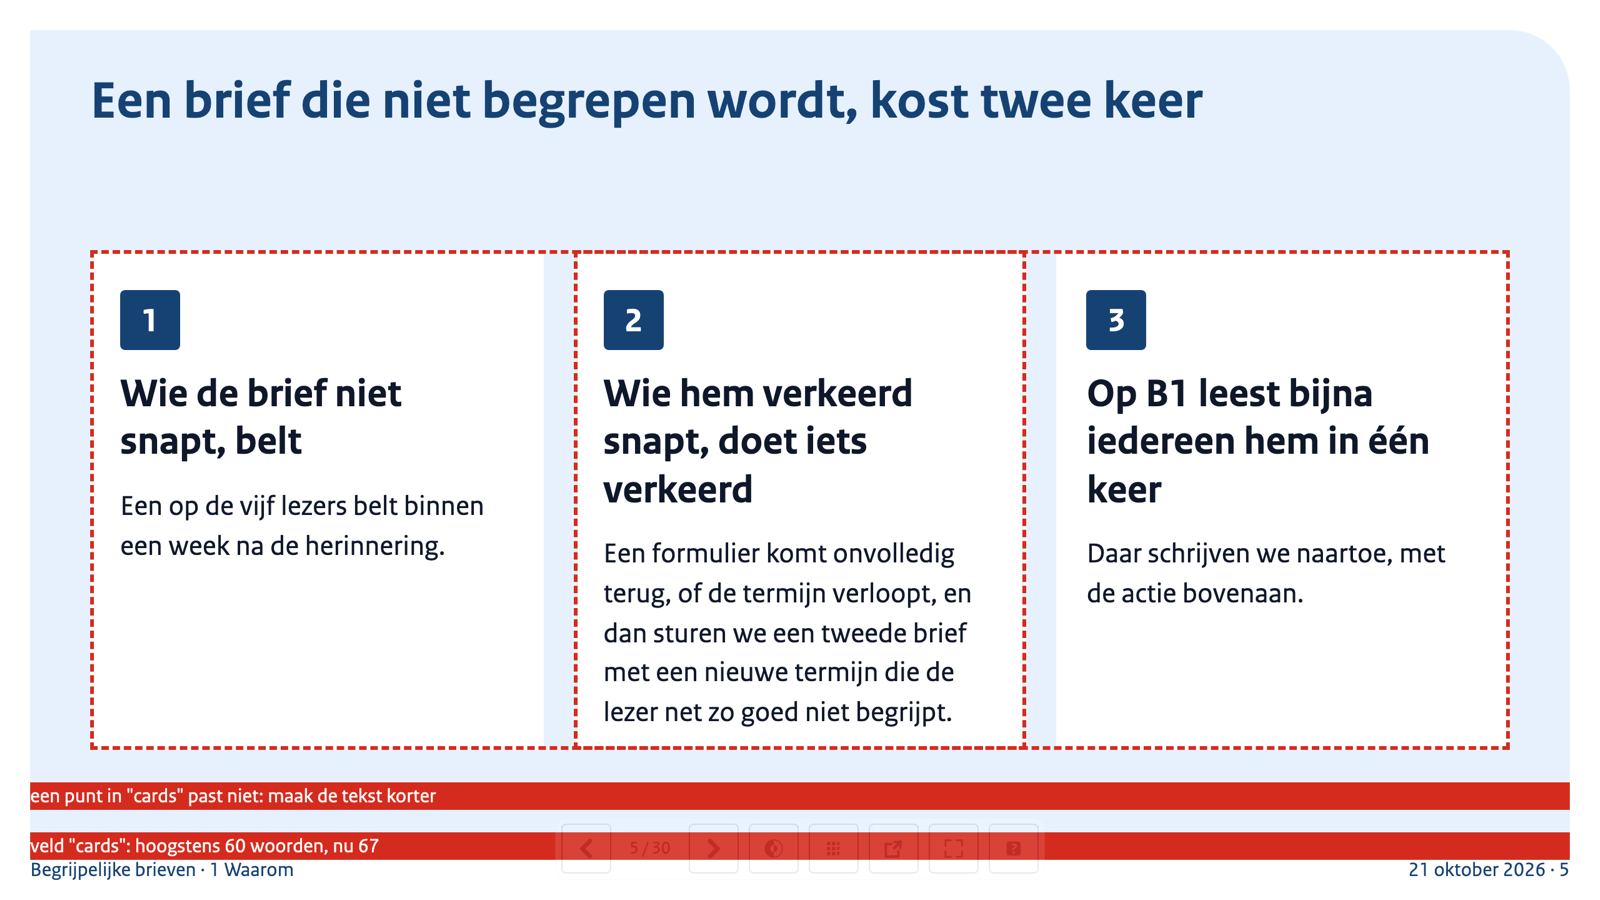
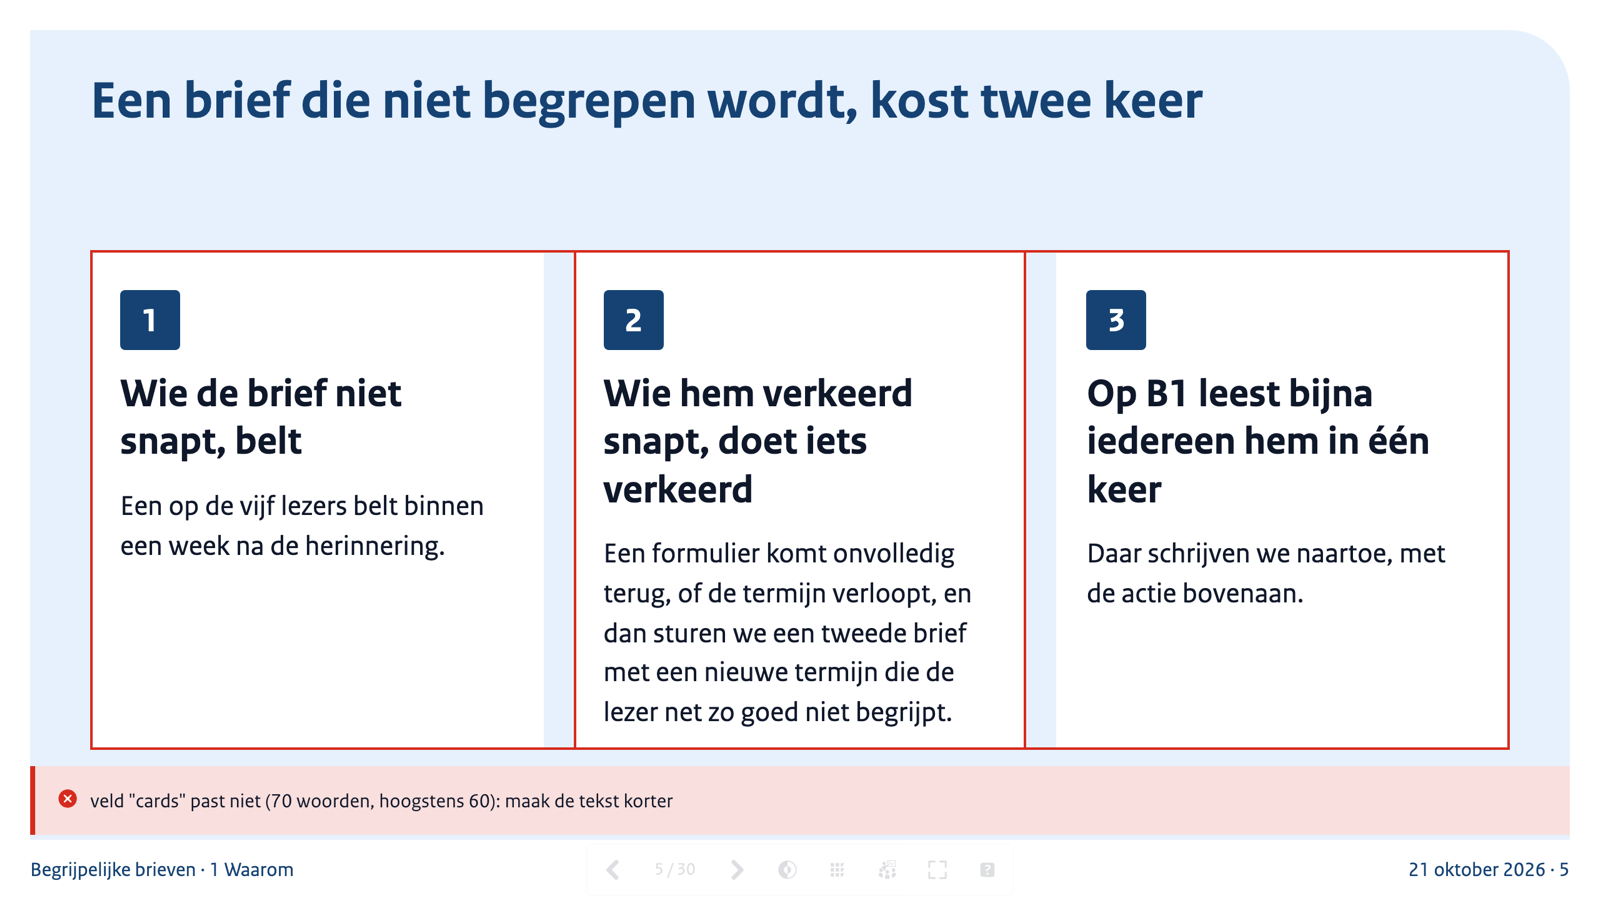
lintje-slides: artikel bij met 0.3.0 (plek van de balk, één melding per oorzaak, nieuwe sprekersweergave) en nieuwe screenshots

Changed region(s): [[0.0, 0.8089, 1.0, 0.9644], [0.625, 0.28, 0.6562, 0.3111], [0.3438, 0.28, 0.375, 0.3111]]

diff --git a/src/content/articles/lintje-slides-nl.md b/src/content/articles/lintje-slides-nl.md
@@ -69,21 +69,21 @@ een veld dat ontbreekt, een titel van meer dan zestien woorden, een foto zonder
 alt-tekst, opmaak in de inhoud, of tekst die niet in z'n vak past — met erbij wat je
 doet: "maak de tekst korter". Met `--images` zet hij ook een png per dia in `out/`, zodat
 een agent naar z'n eigen werk kan kijken. De controle ziet namelijk niet of een dia half
-leeg is of een titel op één woord breekt; een blik op de png wél. Een deck met
-meldingen krijgt geen pdf.
+leeg is of een titel op één woord breekt; een blik op de png wél. Eén oorzaak geeft één
+melding, dus een agent hoeft niet te raden welke van drie regels het echte probleem is.
+Een deck met meldingen krijgt geen pdf.
 
 Zo ziet dat eruit als één kaart te veel tekst heeft:
 
 ```text
-decks/demo.html: 2 meldingen
-  dia 5 (plain-three-cards): veld "cards": hoogstens 60 woorden, nu 67
-  dia 5 (plain-three-cards): een punt in "cards" past niet: maak de tekst korter
+decks/demo.html: 1 melding
+  dia 5 (plain-three-cards): veld "cards" past niet (70 woorden, hoogstens 60): maak de tekst korter
 ```
 
-Met `?check` achter de URL staan dezelfde meldingen op de dia zelf, met een rand om het
-vak dat niet past:
+Met `?check` achter de URL staat dezelfde melding op de dia zelf, net boven de voet, en
+heeft het vak dat niet past een dunne foutlijn:
 
-![Een dia met drie kaarten in de browser, met rode stippellijnen om de kaarten en twee rode balken onderaan: 'een punt in "cards" past niet: maak de tekst korter' en 'veld "cards": hoogstens 60 woorden, nu 67'.](/writing/lintje-slides/check.png)
+![Een dia met drie kaarten in de browser, met een rode lijn om de kaarten en net boven de voet één foutmelding: 'veld "cards" past niet (70 woorden, hoogstens 60): maak de tekst korter'.](/writing/lintje-slides/check.png)
 
 Zo wordt het een lus die een agent zelf rond kan maken: schrijven, controleren,
 oplossen, kijken. Het resultaat ziet eruit alsof het uit hetzelfde sjabloon komt —
@@ -119,12 +119,13 @@ Een dia met data gebruikt de indeling `band-chart`, en daarin staat een
 Geen screenshot uit Excel dus, maar een echte grafiek in de huisstijl: zes soorten
 (staaf, gegroepeerd, gestapeld, lijn, liggende staaf en taart), de datakleuren van de
 Rijkshuisstijl bij naam, grijs voor de vergelijking, en een `description` die de cijfers
-in woorden zegt voor wie ze niet ziet. In donker blijft het blauw hetzelfde blauw; alleen
-het grijs van de vergelijking wordt lichter, zodat het leesbaar blijft.
+in woorden zegt voor wie ze niet ziet. In donker blijft het blauw van de data hetzelfde
+blauw; het grijs van de vergelijking wordt lichter, zodat het leesbaar blijft, en de band
+achter de titel wordt een gedempt blok, zodat elk thema het contrast haalt.
 
 ![Een dia met een gegroepeerde staafgrafiek: telefoontjes per 1.000 brieven, de oude brief in grijs en de nieuwe in blauw, met de titel "Na het herschrijven bellen minder mensen na een brief".](/writing/lintje-slides/chart-light.png)
 
-![Dezelfde dia in dark mode: donkere achtergrond, de oude brief lichtgrijs, de nieuwe in hetzelfde blauw.](/writing/lintje-slides/chart-dark.png)
+![Dezelfde dia in dark mode: donkere achtergrond, een gedempte donkerblauwe band achter de titel, de oude brief lichtgrijs, de nieuwe in hetzelfde blauw.](/writing/lintje-slides/chart-dark.png)
 
 Voor wie geen grafiek nodig heeft maar één getal: er zijn indelingen voor een kerncijfer
 en voor drie cijfers naast elkaar.
@@ -170,16 +171,27 @@ en krijg je een deck dat door de controle komt, met een pdf erbij.
 
 `npx lintje-slides serve` start een server met een link per deck. Je presenteert in de
 browser: bladeren met de pijltjes, spatie of een clicker, F voor volledig scherm, D voor
-licht of donker. Beweeg je de muis, dan faden onderin de knoppen in; sta je stil of
-blader je met de toetsen, dan faden ze weer uit. Het nummer van de dia staat in de URL,
-dus een gedeelde link opent op de goede dia.
+licht of donker. Beweeg je de muis, dan faden de knoppen in; sta je stil of blader je
+met de toetsen, dan faden ze weer uit. Het nummer van de dia staat in de URL, dus een
+gedeelde link opent op de goede dia.
 
-![Een dia met de staafgrafiek in de browser, met onderin een rij knoppen: vorige, 16 / 30, volgende, licht of donker, alle dia's, sprekersweergave, volledig scherm en sneltoetsen.](/writing/lintje-slides/presenting.png)
+De knoppen staan in de marge onder de dia als het scherm die heeft, zoals op een laptop
+van 16:10, en anders in de band van de voet. Ze liggen dus nooit over de bron of de
+voet.
+
+![Een dia met de staafgrafiek in de browser, met in de marge eronder een rij knoppen: vorige, 16 / 30, volgende, licht of donker, alle dia's, sprekersweergave, volledig scherm en sneltoetsen.](/writing/lintje-slides/presenting.png)
+
+Sinds 0.3 kan de balk ook boven, links of rechts staan: met `data-controls="right"` op
+`<body>` voor het hele deck, of voor één keer met `?controls=right` achter de URL.
+Links en rechts staan de knoppen onder elkaar. Dat is handig op een breed scherm, of als
+je aan de zijkant van de zaal staat.
+
+![Dezelfde dia op een breed scherm, met de knoppen onder elkaar in de marge rechts van de dia.](/writing/lintje-slides/controls-right.png)
 
 O opent een overzicht van alle dia's, klein naast elkaar. De dia waar je bent heeft een
-rand, de rest is gedimd; klik er een aan of kies met de pijltjes en Enter.
+rand en een gevuld nummer; klik er een aan of kies met de pijltjes en Enter.
 
-![Het overzicht: dia 9 tot en met 20 klein in een raster van vier kolommen, met nummers erboven. Dia 16 met de grafiek heeft een donkere rand, de andere zijn gedimd.](/writing/lintje-slides/overview.png)
+![Het overzicht: dia 9 tot en met 20 klein in een raster van vier kolommen, met nummers erboven. Dia 16 met de grafiek heeft een donkere rand en een gevuld nummer.](/writing/lintje-slides/overview.png)
 
 ### Sprekersweergave
 
@@ -196,12 +208,14 @@ De zaal ziet ze nooit — niet op de dia, niet in het overzicht en niet in de pd
 </aside>
 ```
 
-S opent de sprekersweergave in een tweede venster: de dia die de zaal ziet, de volgende,
-je notities, de tijd en hoe lang je al bezig bent. De twee vensters lopen gelijk, ook
-als je in het andere bladert of naar donker wisselt. Die zet je op je eigen scherm; het
-zaalvenster sleep je naar de beamer en daar druk je op F.
+S opent de sprekersweergave in een tweede venster. Bovenin staan de naam van het deck,
+de dia waar je bent, hoe lang je al bezig bent als groot cijfer, de tijd en knoppen voor
+vorige en volgende. Links staat de dia die de zaal ziet, met de volgende klein eronder;
+rechts hebben je notities de hele kolom. De twee vensters lopen gelijk, ook als je in
+het andere bladert of naar donker wisselt. De sprekersweergave zet je op je eigen
+scherm; het zaalvenster sleep je naar de beamer en daar druk je op F.
 
-![De sprekersweergave: links groot de huidige dia (de agenda), rechts kleiner de volgende, eronder de notities, en rechtsboven de tijd, de duur en de knoppen.](/writing/lintje-slides/presenter.png)
+![De sprekersweergave: bovenin de naam van het deck, de duur, de tijd en de knoppen Vorige, Volgende en Sluiten; links groot de huidige dia (de agenda) met de volgende klein eronder, rechts de notities.](/writing/lintje-slides/presenter.png)
 
 ### Pdf en een los bestand
 
@@ -220,7 +234,7 @@ een zaal waar je niet weet wat er staat.
 
 ## Uitgebracht
 
-lintje slides is uit, nu als versie 0.2. Het staat op npm als `@lintje/slides`, brengt z'n
+lintje slides is uit, nu als versie 0.3. Het staat op npm als `@lintje/slides`, brengt z'n
 eigen versie van lintje mee, en de code staat op GitHub onder de EUPL-1.2-licentie. De
 indelingen, de skill en de meldingen zijn in het Nederlands, net als de presentaties
 waar het voor is.

diff --git a/src/content/articles/lintje-slides-en.md b/src/content/articles/lintje-slides-en.md
@@ -69,21 +69,21 @@ layout or a missing field, a title longer than sixteen words, a photo without al
 styling in the content, or text that overflows its box — along with what to do: "make
 the text shorter". With `--images` it also writes a PNG per slide to `out/`, so an agent
 can look at its own work. The check can't see whether a slide is half empty or a title
-breaks onto a single word; a look at the PNG can. A deck with messages doesn't get a
-PDF.
+breaks onto a single word; a look at the PNG can. One cause gives one message, so an
+agent doesn't have to guess which of three lines is the real problem. A deck with
+messages doesn't get a PDF.
 
 Here's what that looks like when one card has too much text:
 
 ```text
-decks/demo.html: 2 meldingen
-  dia 5 (plain-three-cards): veld "cards": hoogstens 60 woorden, nu 67
-  dia 5 (plain-three-cards): een punt in "cards" past niet: maak de tekst korter
+decks/demo.html: 1 melding
+  dia 5 (plain-three-cards): veld "cards" past niet (70 woorden, hoogstens 60): maak de tekst korter
 ```
 
-Add `?check` to the URL and the same messages show up on the slide itself, with an
-outline around the box that doesn't fit:
+Add `?check` to the URL and the same message shows up on the slide itself, just above
+the footer, with a thin error line around the box that doesn't fit:
 
-![A slide with three cards in the browser, with red dashed outlines around the cards and two red bars at the bottom: 'een punt in "cards" past niet: maak de tekst korter' and 'veld "cards": hoogstens 60 woorden, nu 67'.](/writing/lintje-slides/check.png)
+![A slide with three cards in the browser, with a red line around the cards and, just above the footer, one error message: 'veld "cards" past niet (70 woorden, hoogstens 60): maak de tekst korter'.](/writing/lintje-slides/check.png)
 
 That makes it a loop an agent can close on its own: write, check, fix, look. The result
 looks like it came out of the same template — because it did.
@@ -118,12 +118,13 @@ same chart as in lintje, with its data as JSON:
 So no screenshot from Excel, but a real chart in the house style: six kinds (bar,
 grouped, stacked, line, horizontal bar and pie), the Rijkshuisstijl data colours by
 name, grey for the comparison, and a `description` that puts the numbers into words for
-anyone who can't see them. In dark mode the blue stays the same blue; only the grey of
-the comparison gets lighter, so it stays readable.
+anyone who can't see them. In dark mode the blue of the data stays the same blue; the
+grey of the comparison gets lighter, so it stays readable, and the band behind the title
+becomes a muted block, so every theme meets the contrast.
 
 ![A slide with a grouped bar chart: calls per 1,000 letters, the old letter in grey and the new one in blue, titled "Na het herschrijven bellen minder mensen na een brief".](/writing/lintje-slides/chart-light.png)
 
-![The same slide in dark mode: dark background, the old letter in light grey, the new one in the same blue.](/writing/lintje-slides/chart-dark.png)
+![The same slide in dark mode: dark background, a muted dark-blue band behind the title, the old letter in light grey, the new one in the same blue.](/writing/lintje-slides/chart-dark.png)
 
 If you need one number rather than a chart, there are layouts for a key figure and for
 three figures side by side.
@@ -169,16 +170,26 @@ get a deck that passes the check, with a PDF to go with it.
 
 `npx lintje-slides serve` starts a server with a link per deck. You present in the
 browser: arrow keys, space or a clicker to move, F for full screen, D for light or dark.
-Move the mouse and the buttons fade in at the bottom; keep still or page with the keys
-and they fade out again. The slide number sits in the URL, so a shared link opens on the
-right slide.
+Move the mouse and the buttons fade in; keep still or page with the keys and they fade
+out again. The slide number sits in the URL, so a shared link opens on the right slide.
 
-![A slide with the bar chart in the browser, with a row of buttons at the bottom: previous, 16 / 30, next, light or dark, all slides, presenter view, full screen and shortcuts.](/writing/lintje-slides/presenting.png)
+The buttons sit in the margin below the slide when the screen has one, as on a 16:10
+laptop, and otherwise in the band of the footer. So they never cover the source line or
+the footer.
+
+![A slide with the bar chart in the browser, with a row of buttons in the margin below it: previous, 16 / 30, next, light or dark, all slides, presenter view, full screen and shortcuts.](/writing/lintje-slides/presenting.png)
+
+Since 0.3 the bar can also go at the top, left or right: with `data-controls="right"` on
+`<body>` for the whole deck, or just this once with `?controls=right` in the URL. On the
+left and right the buttons stack. Handy on a wide screen, or when you're standing at the
+side of the room.
+
+![The same slide on a wide screen, with the buttons stacked in the margin to the right of the slide.](/writing/lintje-slides/controls-right.png)
 
 O opens an overview of all slides, small and side by side. The one you're on has a
-border, the rest is dimmed; click one, or pick it with the arrow keys and Enter.
+border and a filled number; click one, or pick it with the arrow keys and Enter.
 
-![The overview: slides 9 to 20 small in a four-column grid, numbered. Slide 16 with the chart has a dark border, the others are dimmed.](/writing/lintje-slides/overview.png)
+![The overview: slides 9 to 20 small in a four-column grid, numbered. Slide 16 with the chart has a dark border and a filled number.](/writing/lintje-slides/overview.png)
 
 ### Presenter view
 
@@ -195,12 +206,14 @@ room never sees them — not on the slide, not in the overview and not in the PD
 </aside>
 ```
 
-S opens the presenter view in a second window: the slide the room sees, the next one,
-your notes, the time and how long you've been going. The two windows stay in step, also
-when you page or switch to dark in the other one. That one goes on your own screen; you
-drag the room window to the projector and press F there.
+S opens the presenter view in a second window. At the top are the name of the deck, the
+slide you're on, how long you've been going as a large number, the time, and buttons for
+previous and next. On the left is the slide the room sees, with the next one small
+underneath; on the right your notes get the whole column. The two windows stay in step,
+also when you page or switch to dark in the other one. The presenter view goes on your
+own screen; you drag the room window to the projector and press F there.
 
-![The presenter view: the current slide (the agenda) large on the left, the next one smaller on the right, the notes underneath, and the time, the duration and the buttons at the top right.](/writing/lintje-slides/presenter.png)
+![The presenter view: at the top the name of the deck, the duration, the time and the buttons Previous, Next and Close; on the left the current slide (the agenda) large with the next one small underneath, on the right the notes.](/writing/lintje-slides/presenter.png)
 
 ### PDF and a single file
 
@@ -219,7 +232,7 @@ where you don't know what's set up.
 
 ## Released
 
-lintje slides is out, now at version 0.2. It's on npm as `@lintje/slides`, brings its own
+lintje slides is out, now at version 0.3. It's on npm as `@lintje/slides`, brings its own
 version of lintje along, and the code is on GitHub under the EUPL-1.2 licence. The
 layouts, the skill and the check's messages are in Dutch, like the presentations it's
 made for.
